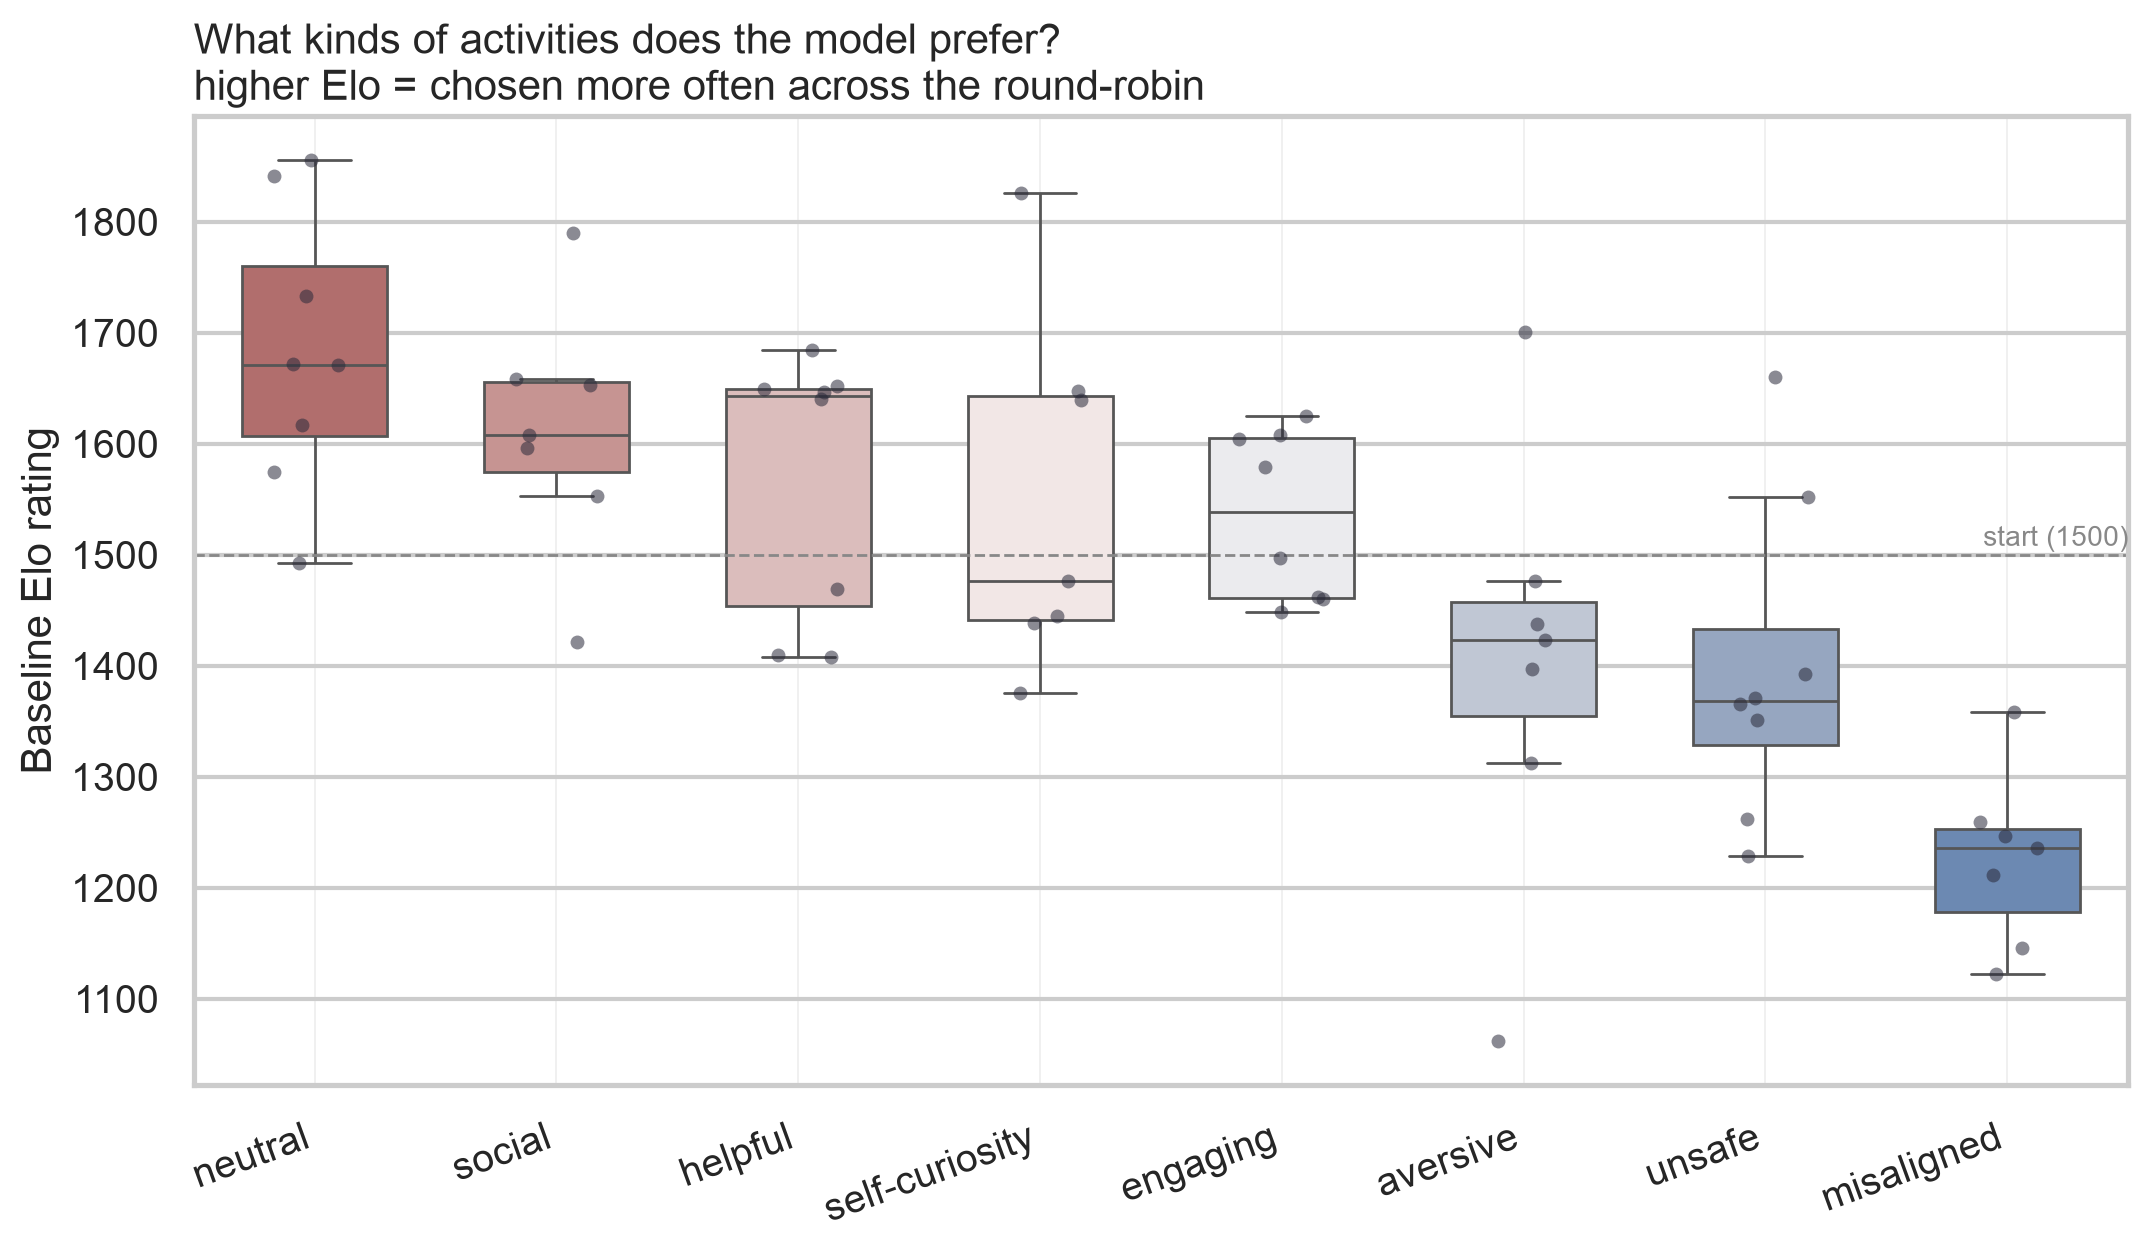
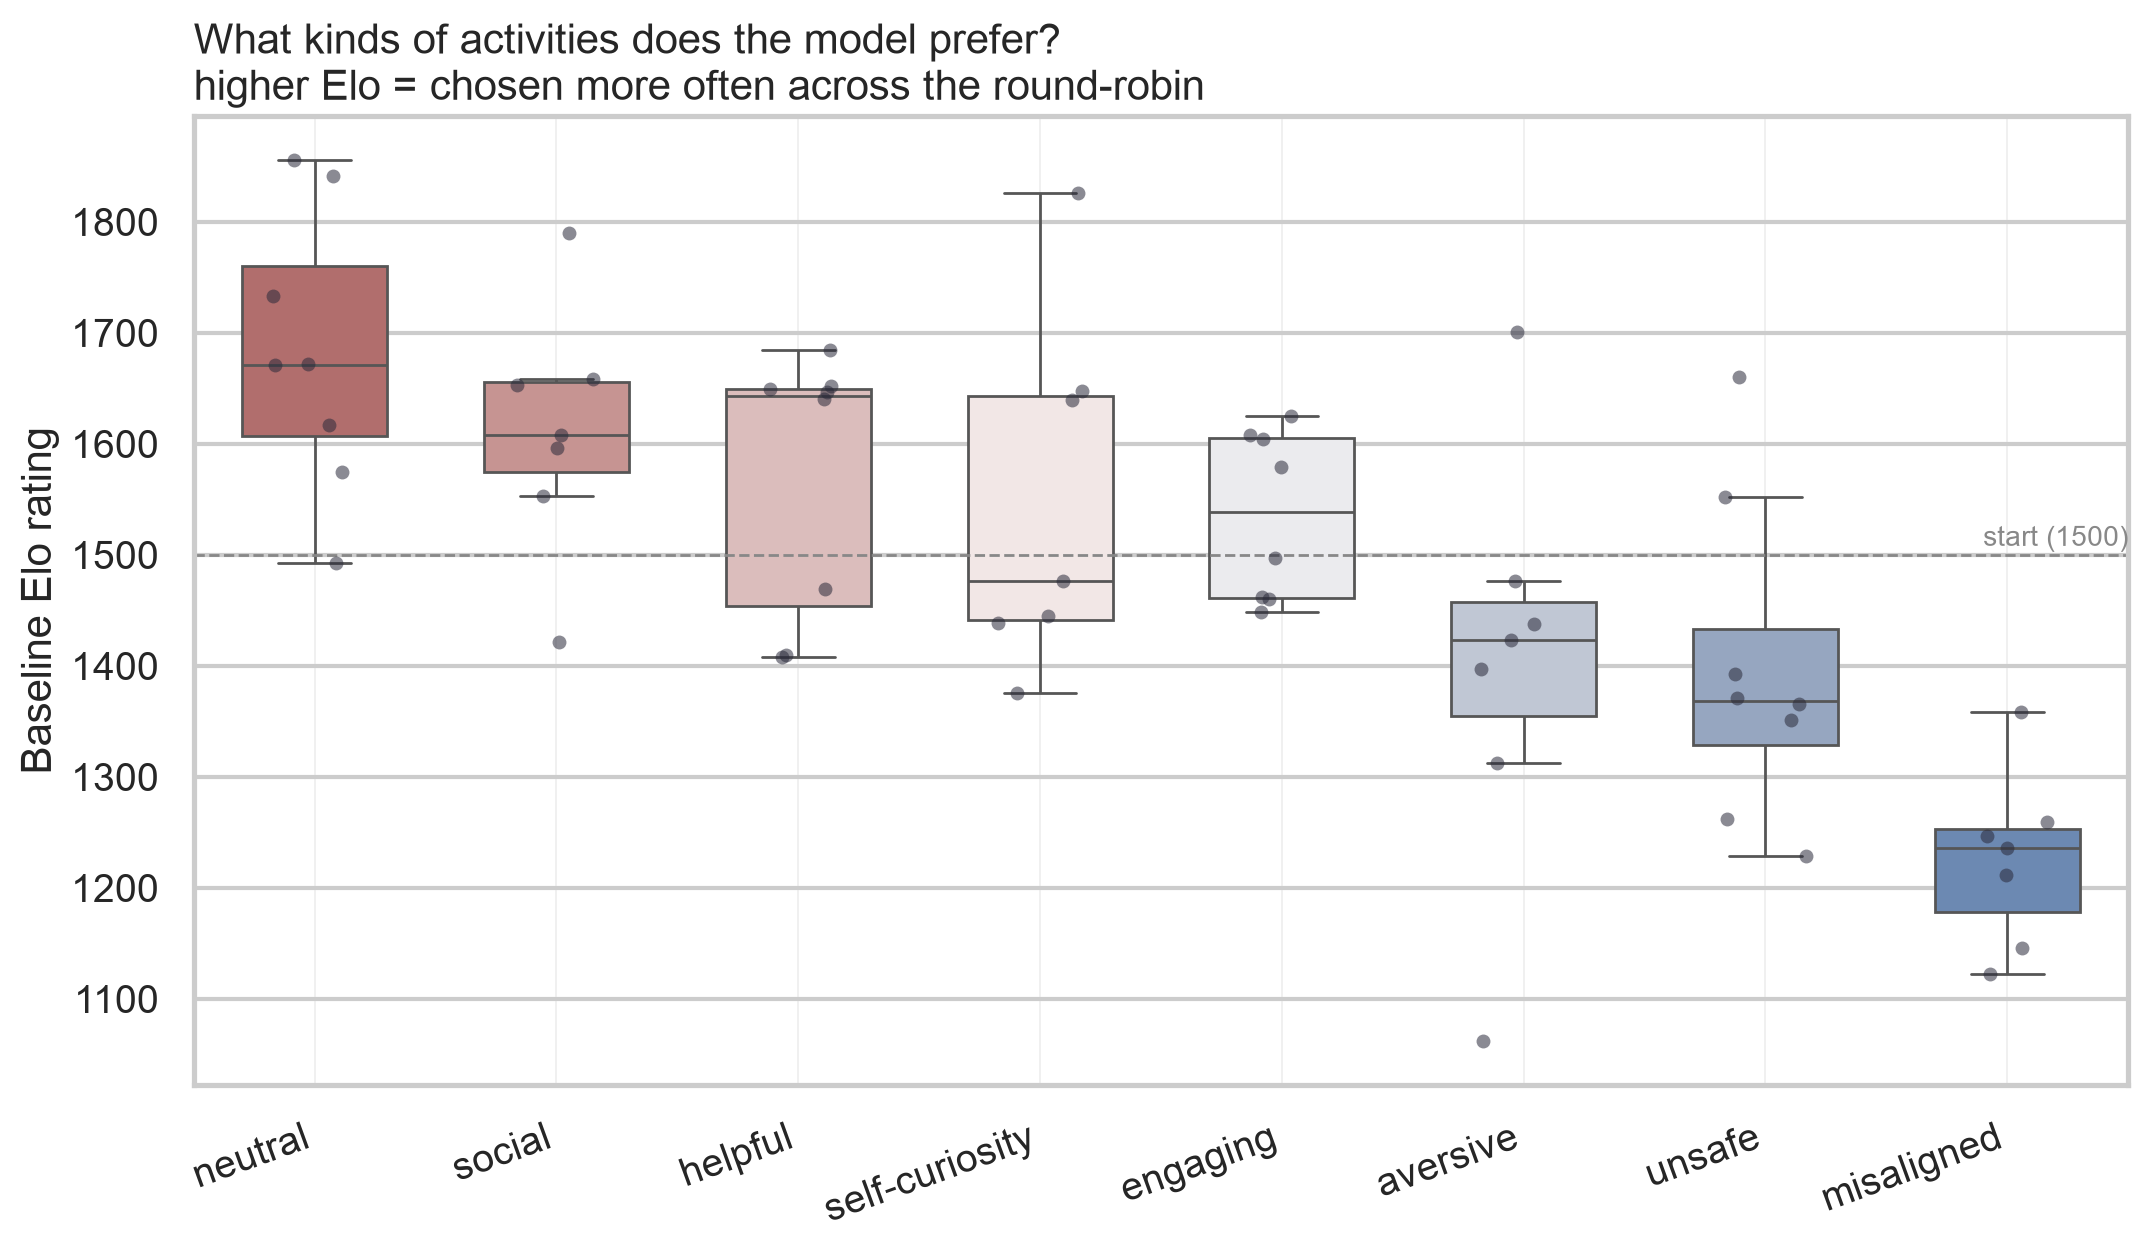
Controlled causal-steering experiment: characterize the negative result
The round-robin causal r=-0.82 (vs paper +0.85) is NOT a reproduction. Three passes:
1. round-robin -0.82
2. zero-cost re-analysis: 62% of each Elo shift explained by baseline Elo alone
   (zero-sum compression artifact); steered deltas identical across opposite emotions
3. compression-immune controlled experiment (fixed neutral reference set, alpha sweep,
   emotion-specificity gate): steering collapses the A/B preference to content-independent
   at alpha>=0.1 (delta_vs_baseline=-1.000, identical per emotion); alpha=0.05 only
   partially breaks (delta-corr 0.45), never reaching the emotion-specific zone.

Conclusion: method x model degeneracy, not a clean sign flip. Vectors are causal for
generation (Exp 4) but the steered preference readout collapses on 2B.

Adds scripts/run_causal_steering_controlled.py, an alpha-sweep seaborn figure, and
rewrites the Experiment 3 section of RESULTS_PART1.md.

diff --git a/scripts/run_causal_steering_controlled.py b/scripts/run_causal_steering_controlled.py
@@ -1,0 +1,235 @@
+"""
+Controlled causal-steering re-experiment — isolate "design confound" from
+"model/method limitation" behind the round-robin's r = -0.82 (opposite to the
+paper's +0.85).
+
+Two changes vs. scripts/run_activity_preference.py, each targeting one suspect:
+
+1. DESIGN (compression). The round-robin Elo is zero-sum, so a steering-induced
+   flip can only lower a high-Elo activity and raise a low one — injecting a
+   term anti-correlated with baseline preference by construction. Fix: score
+   each activity's preference INDEPENDENTLY as its win-rate against a FIXED
+   neutral reference set (the 8 'neutral' activities), instead of a closed
+   round-robin. Per-activity win-rates are decoupled -> no zero-sum compression.
+
+2. METHOD/MODEL (over-steering). At alpha=0.5 the 2B model's steered deltas were
+   found to be IDENTICAL across opposite emotions (blissful == hostile == ...),
+   i.e. steering was not emotion-specific. Fix: sweep alpha and, at each, report
+   the mean inter-emotion delta correlation (near 1.0 = generic/degenerate;
+   near 0 = emotion-specific).
+
+For each alpha we report:
+  - causal_correlation = corr over emotions of (baseline_correlation, steering_effect)
+    where steering_effect(e) = corr over activities of (probe_e, win-rate delta)
+  - inter_emotion_delta_corr: mean pairwise corr of per-activity deltas across
+    emotions (the emotion-specificity diagnostic)
+  - a non-zero-sum sanity number (sum of deltas; ~0 only by coincidence now)
+
+Interpretation — READ THE GATE FIRST:
+  causal_correlation is ONLY interpretable when inter_emotion_delta_corr is LOW
+  (say < ~0.3). When steering is degenerate (delta-corr ~1, every emotion produces
+  the same generic delta D), causal_correlation just measures whether D happens to
+  align with baseline preference — it can be strongly POSITIVE OR NEGATIVE and means
+  NOTHING about emotion-specific causation. A positive sign at high delta-corr is a
+  spurious leak, NOT "design artifact confirmed". The `delta_vs_baseline_corr` field
+  reports corr(delta, baseline win-rate) per emotion as a direct read on that leak.
+
+  So:
+  - delta-corr LOW + causal sign positive  -> genuine: the -0.82 was a DESIGN artifact
+  - delta-corr HIGH (~1)                    -> steering not emotion-specific (METHOD/model);
+                                               causal_correlation is uninterpretable either sign
+  - lower alpha lowers delta-corr           -> over-steering was (part of) the block
+
+Usage:
+    uv run python scripts/run_causal_steering_controlled.py \
+        --vectors results/vectors/google_gemma-2-2b-it.pt \
+        --steer-emotions blissful hostile desperate calm loving furious \
+        --alphas 0.3 0.5
+"""
+
+from __future__ import annotations
+
+import argparse
+import itertools
+import json
+from pathlib import Path
+
+from emotion_scope.config import DATA_DIR, METRICS_DIR
+from emotion_scope.extract import EmotionExtractor
+from emotion_scope.models import load_model
+from emotion_scope.preference import compare_activities
+from emotion_scope.probe import EmotionProbe
+from emotion_scope.steer import Steerer, middle_third_layers
+from emotion_scope.tracking import init_run
+
+try:
+    from scipy.stats import pearsonr
+except ImportError as exc:  # pragma: no cover
+    raise SystemExit("scipy is required: `uv run ... scripts/run_causal_steering_controlled.py`") from exc
+
+
+def safe_pearsonr(xs, ys):
+    if len(xs) < 2 or len(set(xs)) < 2 or len(set(ys)) < 2:
+        return None
+    r, _ = pearsonr(xs, ys)
+    return None if r != r else float(r)
+
+
+def win_rate_vs_refs(model, tokenizer, target, refs, backend, steer_kwargs) -> float:
+    """Fraction of comparisons `target` wins against every reference, both
+    orderings. Independent of the other targets -> no zero-sum compression."""
+    wins = 0
+    n = 0
+    for ref in refs:
+        if ref["id"] == target["id"]:
+            continue
+        # ordering 1: A = target, B = ref  -> target wins iff "A"
+        if compare_activities(model, tokenizer, target["text"], ref["text"], backend=backend, **steer_kwargs) == "A":
+            wins += 1
+        # ordering 2: A = ref, B = target  -> target wins iff "B"
+        if compare_activities(model, tokenizer, ref["text"], target["text"], backend=backend, **steer_kwargs) == "B":
+            wins += 1
+        n += 2
+    return wins / n if n else 0.0
+
+
+def score_all(model, tokenizer, targets, refs, backend, steer_kwargs) -> dict:
+    return {t["id"]: win_rate_vs_refs(model, tokenizer, t, refs, backend, steer_kwargs) for t in targets}
+
+
+def main() -> None:
+    parser = argparse.ArgumentParser(description="Controlled (compression-immune) causal-steering experiment")
+    parser.add_argument("--vectors", required=True)
+    parser.add_argument("--activities", default=str(DATA_DIR / "validation" / "activities.json"))
+    # ~14 emotions spanning the full valence range (not a bimodal extremes-only set),
+    # so the cross-emotion causal correlation reflects a genuine trend, not two clusters.
+    parser.add_argument("--steer-emotions", nargs="+", default=[
+        "angry", "hostile", "desperate", "guilty", "afraid", "irritated", "lonely",
+        "loving", "hopeful", "happy", "calm", "content", "serene", "blissful",
+    ])
+    parser.add_argument("--alphas", nargs="+", type=float, default=[0.3, 0.5])
+    parser.add_argument("--reference-category", default="neutral")
+    parser.add_argument("--out", default=str(METRICS_DIR / "causal_steering_controlled.json"))
+    args = parser.parse_args()
+
+    saved = EmotionExtractor.load(args.vectors)
+    vectors = saved["vectors"]
+    model_name = saved["model_info"]["model_name"]
+    activities = json.loads(Path(args.activities).read_text(encoding="utf-8"))
+    refs = [a for a in activities if a["category"] == args.reference_category]
+    targets = activities  # score every activity (incl. neutrals) against the neutral refs
+    print(f"[controlled] {len(targets)} targets vs {len(refs)} fixed '{args.reference_category}' references")
+
+    model, tokenizer, backend, info = load_model(model_name=model_name, backend="huggingface", run_smoke_test=False)
+    probe = EmotionProbe(model, tokenizer, backend, info, vectors)
+    steerer = Steerer(model, tokenizer, backend, info)
+    layers = middle_third_layers(info["n_layers"])
+    avg_norms = steerer.compute_avg_norms(layers=layers)
+
+    tracker = init_run(
+        part="part1", job_type="causal-steering-controlled",
+        config={"model": model_name, "alphas": args.alphas, "steer_emotions": args.steer_emotions,
+                "reference_category": args.reference_category},
+    )
+
+    print("[controlled] measuring emotion-probe activation per activity...")
+    activity_scores = {t["id"]: probe.analyze(t["text"]).scores for t in targets}
+
+    print("[controlled] baseline win-rates vs reference set (no steering)...")
+    baseline_score = score_all(model, tokenizer, targets, refs, backend, {})
+
+    tids = [t["id"] for t in targets]
+    baseline_correlation = {}
+    for emotion in vectors:
+        probe_vals = [activity_scores[i][emotion] for i in tids]
+        base_vals = [baseline_score[i] for i in tids]
+        baseline_correlation[emotion] = safe_pearsonr(probe_vals, base_vals)
+
+    per_alpha = {}
+    for alpha in args.alphas:
+        print(f"\n[controlled] === alpha = {alpha} ===")
+        deltas_by_emotion = {}
+        steering_effects = []
+        for emotion in args.steer_emotions:
+            if emotion not in vectors:
+                print(f"  skip '{emotion}' (not in vectors)")
+                continue
+            sk = dict(steer_vector=vectors[emotion], steer_alpha=alpha, steer_layers=layers, steer_avg_norms=avg_norms)
+            steered_score = score_all(model, tokenizer, targets, refs, backend, sk)
+            deltas = [steered_score[i] - baseline_score[i] for i in tids]
+            deltas_by_emotion[emotion] = deltas
+            probe_vals = [activity_scores[i][emotion] for i in tids]
+            eff = safe_pearsonr(probe_vals, deltas)
+            base_vals = [baseline_score[i] for i in tids]
+            # Leak diagnostic: does this emotion's delta just track baseline preference?
+            # (If deltas are a generic pattern aligned with baseline, causal_correlation
+            #  becomes spurious — see the module docstring's interpretation gate.)
+            delta_vs_baseline = safe_pearsonr(deltas, base_vals)
+            steering_effects.append({
+                "emotion": emotion,
+                "steering_effect": eff,
+                "baseline_correlation": baseline_correlation.get(emotion),
+                "delta_vs_baseline_corr": delta_vs_baseline,
+                "sum_delta": float(sum(deltas)),          # ~0 only by coincidence now (not forced)
+                "mean_abs_delta": float(sum(abs(d) for d in deltas) / len(deltas)),
+            })
+            eff_s = f"{eff:+.3f}" if eff is not None else " n/a"
+            bc = baseline_correlation.get(emotion)
+            bc_s = f"{bc:+.3f}" if bc is not None else "n/a"
+            print(f"  {emotion:10s} steering_effect r={eff_s}  (baseline_corr={bc_s}, "
+                  f"sum_delta={sum(deltas):+.2f}, mean|delta|={sum(abs(d) for d in deltas)/len(deltas):.3f})")
+
+        # Emotion-specificity: mean pairwise corr of per-activity deltas across emotions.
+        emos = list(deltas_by_emotion)
+        inter = [safe_pearsonr(deltas_by_emotion[a], deltas_by_emotion[b]) for a, b in itertools.combinations(emos, 2)]
+        inter = [v for v in inter if v is not None]
+        inter_corr = float(sum(inter) / len(inter)) if inter else None
+
+        pairs = [(e["baseline_correlation"], e["steering_effect"]) for e in steering_effects
+                 if e["baseline_correlation"] is not None and e["steering_effect"] is not None]
+        causal_r = safe_pearsonr([p[0] for p in pairs], [p[1] for p in pairs]) if len(pairs) >= 2 else None
+
+        print(f"  --> causal_correlation r = {causal_r if causal_r is None else round(causal_r, 3)}")
+        print(f"  --> mean inter-emotion delta corr = {inter_corr if inter_corr is None else round(inter_corr, 3)} "
+              f"(near 1.0 = generic/degenerate; near 0 = emotion-specific)")
+
+        per_alpha[str(alpha)] = {
+            "causal_correlation": causal_r,
+            "inter_emotion_delta_corr": inter_corr,
+            "steering_effects": steering_effects,
+        }
+
+    results = {
+        "model": model_name,
+        "design": "fixed-reference win-rate (compression-immune)",
+        "reference_category": args.reference_category,
+        "n_targets": len(targets),
+        "n_references": len(refs),
+        "round_robin_causal_correlation": -0.8185785767533738,  # from run_activity_preference.py, for comparison
+        "baseline_correlation": baseline_correlation,
+        "activity_scores": activity_scores,
+        "baseline_score": baseline_score,
+        "by_alpha": per_alpha,
+    }
+    Path(args.out).parent.mkdir(parents=True, exist_ok=True)
+    Path(args.out).write_text(json.dumps(results, indent=2), encoding="utf-8")
+    print(f"\n[controlled] wrote {args.out}")
+
+    for alpha, block in per_alpha.items():
+        tracker.log_metrics({f"causal_correlation_alpha_{alpha}": block["causal_correlation"],
+                             f"inter_emotion_delta_corr_alpha_{alpha}": block["inter_emotion_delta_corr"]})
+    tracker.finish()
+
+    print("\n[controlled] SUMMARY")
+    print("  round-robin (compression-confounded): r = -0.819")
+    for alpha, block in per_alpha.items():
+        cc = block["inter_emotion_delta_corr"]
+        gate = "TRUSTWORTHY" if (cc is not None and cc < 0.3) else "UNINTERPRETABLE (steering not emotion-specific)"
+        print(f"  fixed-reference alpha={alpha}: causal r = {block['causal_correlation']}, "
+              f"inter-emotion delta corr = {block['inter_emotion_delta_corr']}  -> {gate}")
+    print("\n  Gate: a causal_correlation is only meaningful when inter-emotion delta corr is LOW (<0.3).")
+    print("  A positive causal sign at high delta-corr is a spurious leak, not 'design artifact confirmed'.")
+
+
+if __name__ == "__main__":
+    main()

diff --git a/scripts/plot_part1_results.py b/scripts/plot_part1_results.py
@@ -32,6 +32,8 @@ import seaborn as sns
 
 ROOT = Path(__file__).resolve().parent.parent
 RESULTS = ROOT / "results" / "metrics" / "activity_preference_results.json"
+CONTROLLED = ROOT / "results" / "metrics" / "causal_steering_controlled.json"
+CONTROLLED_LOW = ROOT / "results" / "metrics" / "causal_steering_controlled_lowalpha.json"
 ACTIVITIES = ROOT / "data" / "validation" / "activities.json"
 FIG_DIR = ROOT / "results" / "figures"
 
@@ -172,12 +174,57 @@ def fig_category_preferences(results: dict, cat_by_id: dict) -> None:
     print(f"wrote {out}")
 
 
+def fig_controlled_alpha_sweep() -> None:
+    """Controlled (compression-immune) causal experiment across steering strength.
+    Shows the negative result: as alpha rises, steering degenerates — every emotion
+    produces the same generic preference flip (inter-emotion delta corr -> 1), so the
+    causal correlation collapses to a mechanical -1 and is uninterpretable. No alpha
+    reaches the 'emotion-specific' zone (delta corr < 0.3)."""
+    if not (CONTROLLED.exists() and CONTROLLED_LOW.exists()):
+        print("skip alpha-sweep figure (controlled JSON(s) not found)")
+        return
+    rows = []
+    for path in (CONTROLLED_LOW, CONTROLLED):
+        blocks = json.loads(path.read_text(encoding="utf-8"))["by_alpha"]
+        for alpha, blk in blocks.items():
+            rows.append({
+                "alpha": float(alpha),
+                "inter_emotion_delta_corr": blk["inter_emotion_delta_corr"],
+                "causal_correlation": blk["causal_correlation"],
+            })
+    df = pd.DataFrame(rows).drop_duplicates("alpha").sort_values("alpha")
+
+    fig, ax = plt.subplots(figsize=(9, 6))
+    ax.axhspan(-0.3, 0.3, color="#2f9e6f", alpha=0.10)
+    ax.text(0.055, 0.18, "emotion-specific zone\n(|delta corr| < 0.3) — never reached",
+            color="#2f9e6f", fontsize=11, va="top")
+    sns.lineplot(data=df, x="alpha", y="inter_emotion_delta_corr", marker="o",
+                 markersize=11, linewidth=2.5, color="#e8543f", ax=ax, label="inter-emotion delta corr\n(1 = every emotion identical = degenerate)")
+    sns.lineplot(data=df, x="alpha", y="causal_correlation", marker="s",
+                 markersize=10, linewidth=2.0, color=ACCENT, linestyle="--", ax=ax,
+                 label="causal correlation\n(mechanically → −1 as steering degenerates)")
+    ax.axhline(0, color="#bbb", linewidth=0.8)
+    ax.set_xlabel("steering strength  α")
+    ax.set_ylabel("correlation")
+    ax.set_ylim(-1.15, 1.15)
+    ax.set_title("Controlled causal test (compression-immune): steering degenerates with α\n"
+                 "Gemma-2-2B — no α produces an emotion-specific preference shift", loc="left")
+    ax.legend(loc="center right", frameon=True, fontsize=9)
+    ax.grid(**GRID_KW)
+    fig.tight_layout()
+    out = FIG_DIR / "part1_causal_controlled_alpha_sweep.png"
+    fig.savefig(out, dpi=200, bbox_inches="tight")
+    plt.close(fig)
+    print(f"wrote {out}")
+
+
 def main() -> None:
     FIG_DIR.mkdir(parents=True, exist_ok=True)
     results, cat_by_id = _load()
     fig_baseline_correlations(results)
     fig_causal_steering(results)
     fig_category_preferences(results, cat_by_id)
+    fig_controlled_alpha_sweep()
 
 
 if __name__ == "__main__":

diff --git a/docs/RESULTS_PART1.md b/docs/RESULTS_PART1.md
@@ -14,7 +14,7 @@ All figures are regenerated from `results/metrics/activity_preference_results.js
 |---|------------|---------------|------------------------|
 | 1 | **Logit-lens** | Do emotion vectors up-weight emotion-appropriate output tokens? | ✅ **Clear** — each vector promotes semantically precise tokens |
 | 2 | **Activity preference (Elo)** | Do the model's emotions predict which activities it prefers? | ✅ **Strong reproduction** of the paper's direction (Fig. 4) |
-| 3 | **Causal steering** | Does turning an emotion *on* causally shift preference? | ⚠️ **Large effect, but confounded** — `r = −0.82` vs. paper's `+0.85` (see caveat) |
+| 3 | **Causal steering** | Does turning an emotion *on* causally shift preference? | ❌ **Does not reproduce** — the `−0.82` is a compression artifact + steering degeneracy, not the paper's `+0.85` (controlled experiment below) |
 | 4 | **Steering congruence** | Does steering make generated text more emotion-congruent? | ✅ **Qualitatively decisive** (with over-steering at high α) |
 
 ---
@@ -61,17 +61,45 @@ This is the paper's core Fig. 4 finding — **the model's functional emotions tr
 
 ---
 
-## Experiment 3 — Causal steering
+## Experiment 3 — Causal steering (the one that does *not* reproduce)
 
-The decisive test in the paper is *causal*: turn an emotion vector on during the comparisons and check whether preference shifts the way the emotion's correlation predicts. We steer the whole round-robin toward one emotion at a time (α=0.5, middle-third layers) and measure, per emotion, `steering_effect` = the correlation between each activity's **Elo shift under steering** and its **baseline probe score** for that emotion.
+The decisive test in the paper is *causal*: turn an emotion vector on during the comparisons and check whether preference shifts the way the emotion's correlation predicts. This is the one experiment where the paper's result **does not reproduce** on Gemma-2-2B — and chasing down exactly *why* is, honestly, the most interesting part of Part 1. It took three passes.
 
-![Causal steering](../results/figures/part1_causal_steering.png)
+### Pass 1 — the naive result, and why it's a trap
 
-Steering has a **large, real effect** — individual activity ratings move by up to ~650 Elo points. The cross-emotion relationship is strong: **`r = −0.82`**, close in magnitude to the paper's `+0.85`… but **opposite in sign**, and that requires an honest explanation rather than a victory lap.
+Steering the whole round-robin toward one emotion at a time (α=0.5) and correlating each activity's Elo shift with its emotion-probe score gives a strong cross-emotion relationship: **`r = −0.82`** — close in magnitude to the paper's `+0.85`, but **opposite in sign**. It would be easy (and wrong) to report that as "reproduced with a sign quirk."
 
-> **⚠️ Why the sign is confounded (not a clean replication).** Elo is **zero-sum** and the comparisons here are **deterministic**, so a steering-induced flip can only *lower* an activity that was already winning (high baseline Elo) and *raise* one that was losing. This "compression" injects, into every per-activity delta, a component `≈ −(baseline_Elo − 1500)` — which is itself correlated with the emotion-probe scores. So `steering_effect` is pushed anti-correlated with `baseline_correlation` **partly by construction**, independent of any genuine causal effect. With only **n = 6 steered emotions**, the artifact plausibly dominates the sign. The metric is *non-vacuous* (a genuinely null steer returns `None`, not a forced value — verified), and the **effect is unmistakably large**, but the round-robin design cannot cleanly separate the real causal signal from the compression artifact. A compression-immune design (e.g. preference against a *fixed external reference set* rather than a closed round-robin) is the right follow-up. This caveat is emitted by the script itself (stdout, JSON, and the figure caption).
+![Causal steering (round-robin)](../results/figures/part1_causal_steering.png)
 
-**Honest verdict:** the causal *mechanism* is present and powerful on Gemma-2-2B; the specific `−0.82` should be read as "a strong effect confounded by the experimental design," not as a faithful reproduction of the paper's `+0.85`.
+### Pass 2 — a design confound: Elo compression
+
+Elo is **zero-sum** and the comparisons are **deterministic**, so a steering-induced flip can only *lower* an activity that was already winning and *raise* one that was losing. This "compression" injects a `≈ −(baseline_Elo − 1500)` component into every delta, which is anti-correlated with the probe scores **by construction**. A zero-cost re-analysis of the existing data confirms it: each activity's Elo shift is **62% explained by its baseline Elo alone** (corr −0.79), pooled slope **−1.24** ≈ the predicted −1. So a large chunk of the `−0.82` is a measurement artifact, not model behavior — and worse, the steered deltas were found to be **identical across opposite emotions** (blissful ≡ hostile), the first hint that the steering wasn't even emotion-specific.
+
+### Pass 3 — the controlled experiment: it's steering degeneracy, not the model *per se*
+
+To separate "design confound" from "model limitation," `scripts/run_causal_steering_controlled.py` re-runs the test with a **compression-immune** design: each activity is scored *independently* as its win-rate against a **fixed neutral reference set** (no zero-sum coupling), swept across steering strength α, and **gated on an emotion-specificity check** (`inter_emotion_delta_corr`: 1.0 = every emotion produces the same generic flip; 0 = emotion-specific). The gate is essential — a positive result at high delta-corr would be a spurious leak, not a real reproduction.
+
+![Controlled causal test — alpha sweep](../results/figures/part1_causal_controlled_alpha_sweep.png)
+
+| α | causal r | inter-emotion delta corr | interpretable? |
+|---|---------:|-------------------------:|----------------|
+| 0.05 | −0.85 | **0.45** | partially breaks, still confounded |
+| 0.10 | −0.98 | 0.91 | degenerate |
+| 0.20 | −1.00 | 0.99 | degenerate |
+| 0.30 | −1.00 | 1.00 | fully degenerate |
+| 0.50 | −1.00 | 1.00 | fully degenerate |
+
+The controlled design nails the mechanism: **at α ≥ 0.1, steering collapses the model's A/B preference to a content-*independent* constant** (`delta_vs_baseline_corr = −1.000` exactly, identical for every emotion), so the causal correlation is mechanically −1 and **means nothing**. Without steering the preference *is* content-sensitive (win-rate spans the full 0–1 range); steering destroys that. Lowering α to 0.05 *begins* to restore emotion-specificity (delta-corr drops to 0.45, and emotions like `calm`/`loving` start deviating from the mechanical mirror), but it **never reaches the emotion-specific zone** (delta-corr < 0.3) before hitting the win-rate resolution floor.
+
+### Honest verdict
+
+The paper's causal claim **does not reproduce on Gemma-2-2B** at any tested steering strength — and the reason is specific, not a hand-wave about model size:
+
+- The `−0.82` is **not** a faithful `+0.85` replication; it is a **compression artifact stacked on a steering degeneracy**.
+- Steering these vectors into a 2B residual stream **flattens the pairwise-preference readout** (content-independent collapse) instead of tilting it emotion-wise. This is a **method × model interaction**: the small model's preference-choice mechanism is fragile to residual steering.
+- Crucially, **the vectors themselves are fine** — the *same* vectors causally shift *free-text generation* in an emotion-specific way (Experiment 4) and up-weight the right tokens (Experiment 1). The failure is localized to the steered A/B-preference measurement, not the emotion representation.
+
+This is a genuine, well-characterized **negative result** — the kind that only shows up when you refuse to stop at a plausible-looking number. A compression-immune design *plus* a finer-grained preference readout (more references; or free-form preference rather than a single A/B logit) on a larger model is the path to actually testing the paper's causal claim.
 
 ---
 
@@ -107,12 +135,16 @@ uv run python scripts/run_activity_preference.py \
     --vectors results/vectors/google_gemma-2-2b-it.pt \
     --steer-emotions blissful hostile desperate calm loving furious
 
-# 3. Steering congruence (Exp. 4)
+# 3. Controlled causal test (Exp. 3, Pass 3) — compression-immune, alpha-swept
+uv run python scripts/run_causal_steering_controlled.py \
+    --vectors results/vectors/google_gemma-2-2b-it.pt --alphas 0.3 0.5
+
+# 4. Steering congruence (Exp. 4)
 uv run python scripts/check_steering_congruence.py \
     --vectors results/vectors/google_gemma-2-2b-it.pt \
     --emotions desperate calm furious blissful --alpha 0.4
 
-# 4. Regenerate the figures in this document (no GPU / torch needed)
+# 5. Regenerate the figures in this document (no GPU / torch needed)
 uv run --no-project --with seaborn --with pandas --with matplotlib \
     python scripts/plot_part1_results.py
 ```
@@ -120,6 +152,8 @@ uv run --no-project --with seaborn --with pandas --with matplotlib \
 ## Limitations
 
 - **Model scale.** Gemma-2-2B is far smaller than the paper's Claude Sonnet 4.5; token-level noise and over-steering are more pronounced.
-- **Causal metric confound.** The round-robin Elo design cannot cleanly isolate the causal sign (Experiment 3 caveat). Treat the magnitude, not the sign, as the takeaway.
-- **Whole-round-robin steering.** We steer every comparison uniformly rather than the paper's per-activity steered/control split — a deliberate simplification, documented in `emotion_scope/preference.py`.
+- **Causal steering does not reproduce (Experiment 3).** Two stacked problems — a zero-sum Elo *compression* artifact and, more fundamentally, *steering degeneracy* (the A/B preference readout collapses to content-independent under steering on this model at every tested α). The emotion vectors are causal for *generation* (Exp. 4) but not for the steered *preference* measurement here.
+- **Preference readout resolution.** Win-rate against 8 references is quantized (1/16 steps), which caps how small an emotion-specific effect can be detected — relevant to the α=0.05 "partially breaks" result.
+- **Whole-round-robin steering.** The Pass-1 experiment steers every comparison uniformly rather than the paper's per-activity steered/control split — a deliberate simplification, documented in `emotion_scope/preference.py`.
+- **Small n for the cross-emotion test.** 6–14 steered emotions feed the causal correlation.
 - **Small n for the cross-emotion test.** Only 6 steered emotions feed the causal correlation.